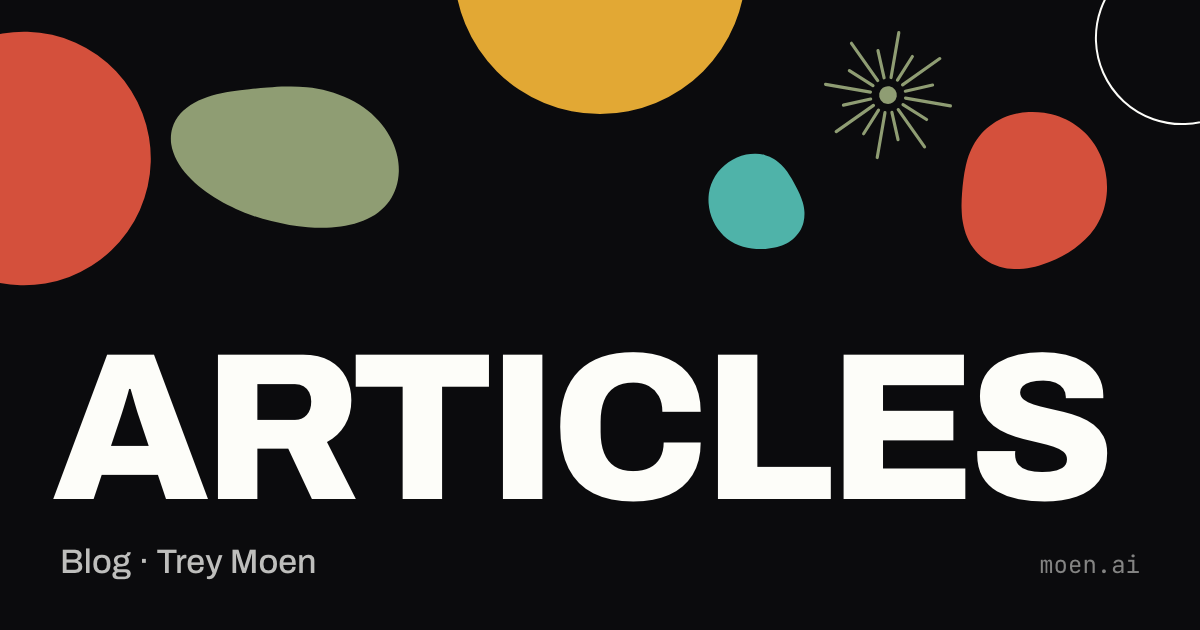
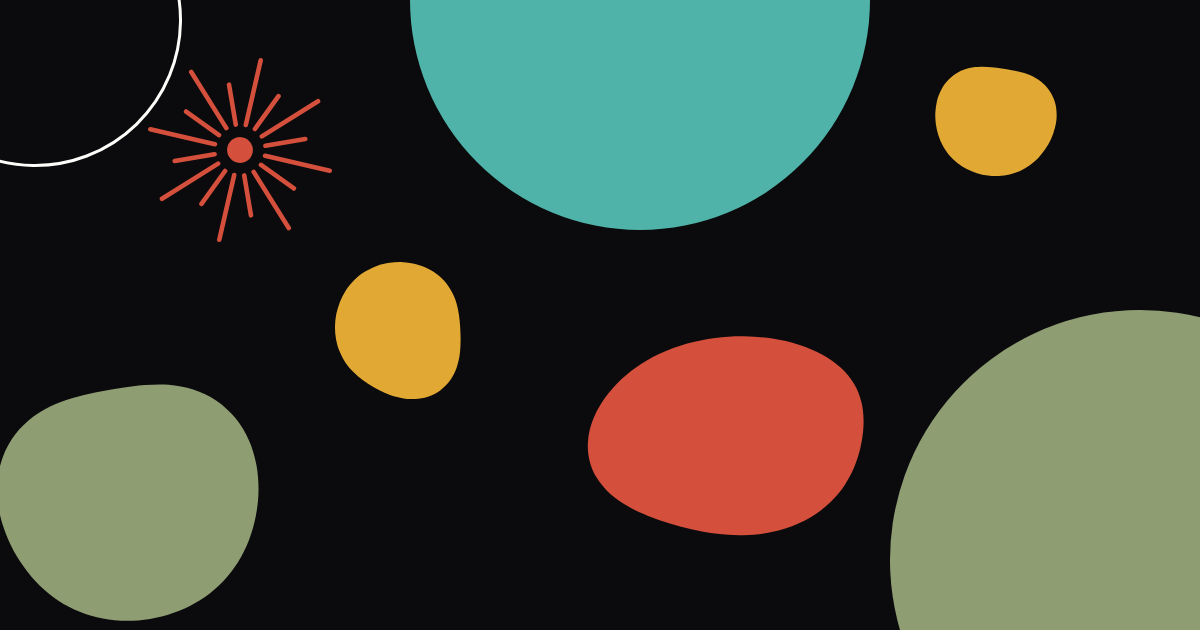
Text-free preview cards, less repeated metadata, Vercel Web Analytics
- Cards are just the shapes, full bleed, with a variation per page; link
  previews already show the title and domain underneath.
- The home page drops og:site_name and the blog index is titled "Blog", so
  Discord and iMessage don't repeat the name; descriptions no longer start
  with it either.
- Add the Vercel Web Analytics script to every page.

diff --git a/tools/og/card.html b/tools/og/card.html
@@ -1,45 +1,27 @@
 <!doctype html>
 <!--
-  Social preview card (1200×630): the hero's mid-century shapes over a title.
+  Social preview card (1200×630): the hero's mid-century shapes, full bleed,
+  no text (link previews already show the title and domain).
   Rendered to PNG by render.sh; not deployed.
-  Params: ?title=…&kicker=…
+  Params: ?hue=0–3 (reassign the palette) &mirror=1 (flip left to right)
 -->
 <html lang="en">
 <head>
   <meta charset="utf-8">
-  <link rel="stylesheet" href="https://fonts.googleapis.com/css2?family=Archivo:wdth,wght@62..125,100..900&family=JetBrains+Mono:wght@400;500&display=block">
   <style>
-    :root {
-      --bg: #0b0b0d; --fg: #fdfdf9; --fg-2: rgba(253,253,249,.74); --fg-3: rgba(253,253,249,.5);
-      --terracotta: #d4503c; --mustard: #e2a834; --sage: #8f9d73; --teal: #4fb3a9;
-    }
-    * { margin: 0; box-sizing: border-box; }
-    html, body { width: 1200px; height: 630px; overflow: hidden; background: var(--bg); color: var(--fg); }
-    body { position: relative; font-family: Archivo, sans-serif; -webkit-font-smoothing: antialiased; }
-    svg { position: absolute; inset: 0; }
-    .text { position: absolute; left: 60px; right: 60px; bottom: 50px; }
-    .title {
-      font-weight: 820; font-variation-settings: "wdth" var(--wdth, 100);
-      text-transform: uppercase; line-height: .8; letter-spacing: -.035em; margin-left: -.04em;
-    }
-    .title span { display: block; width: max-content; white-space: nowrap; }
-    .meta { display: flex; justify-content: space-between; align-items: baseline; margin-top: 30px; }
-    .kicker { font-size: 34px; font-weight: 500; color: var(--fg-2); }
-    .site { font-family: 'JetBrains Mono', monospace; font-size: 24px; color: var(--fg-3); }
+    :root { --bg: #0b0b0d; --fg: #fdfdf9; --terracotta: #d4503c; --mustard: #e2a834; --sage: #8f9d73; --teal: #4fb3a9; }
+    * { margin: 0; }
+    html, body { width: 1200px; height: 630px; overflow: hidden; background: var(--bg); }
+    svg { display: block; }
   </style>
 </head>
 <body>
-  <svg id="shapes" viewBox="0 0 1200 630" aria-hidden="true"></svg>
-  <div class="text">
-    <h1 class="title" id="title"></h1>
-    <div class="meta"><span class="kicker" id="kicker"></span><span class="site">moen.ai</span></div>
-  </div>
+  <svg id="shapes" width="1200" height="630" viewBox="0 0 1200 630" aria-hidden="true"></svg>
 
   <script>
     const params = new URLSearchParams(location.search);
-    const W = 1200, MAX_W = W - 120;
-    const titleEl = document.getElementById('title');
-    document.getElementById('kicker').textContent = params.get('kicker') || 'Professional Maker';
+    const hue = Number(params.get('hue')) || 0;
+    const mirror = params.get('mirror') === '1';
 
     // Same curve and shapes as the hero (js/main.js), frozen at t = 0.
     const smoothPath = (pts) => {
@@ -53,31 +35,37 @@
       }
       return `${d}Z`;
     };
-    const C = { t: 'var(--terracotta)', m: 'var(--mustard)', s: 'var(--sage)', g: 'var(--teal)', k: 'var(--fg)' };
+
+    // Fills rotate through the palette by `hue`; the ring stays white.
+    const FILLS = ['var(--terracotta)', 'var(--mustard)', 'var(--sage)', 'var(--teal)'];
+    const fill = (i) => FILLS[(i + hue) % FILLS.length];
+    // x, y, r in card pixels; `c` indexes FILLS. Edge shapes run off the card.
     const SHAPES = [
-      { kind: 'sun', fx: 0.02, fy: 0.5, r: 0.4, color: C.t },
-      { kind: 'kidney', fx: 0.24, fy: 0.5, r: 0.24, color: C.s, rot: 12 },
-      { kind: 'half', fx: 0.5, fy: -0.1, r: 0.46, color: C.m, rot: 180 },
-      { kind: 'pebble', fx: 0.63, fy: 0.64, r: 0.15, color: C.g },
-      { kind: 'burst', fx: 0.74, fy: 0.3, r: 0.2, color: C.s },
-      { kind: 'pebble', fx: 0.86, fy: 0.6, r: 0.24, color: C.t },
-      { kind: 'ring', fx: 0.985, fy: 0.12, r: 0.28, color: C.k },
+      { kind: 'sun', x: 60, y: 560, r: 250, c: 0 },
+      { kind: 'kidney', x: 470, y: 440, r: 100, c: 2, rot: 12 },
+      { kind: 'half', x: 560, y: 0, r: 230, c: 1, rot: 180 },
+      { kind: 'pebble', x: 205, y: 120, r: 58, c: 3 },
+      { kind: 'pebble', x: 800, y: 330, r: 66, c: 3 },
+      { kind: 'burst', x: 960, y: 150, r: 92, c: 2 },
+      { kind: 'pebble', x: 1070, y: 500, r: 125, c: 0 },
+      { kind: 'ring', x: 1165, y: 20, r: 150 },
     ];
     const WAVES = [[2, 0.055], [3, 0.035], [4, 0.015]];
 
-    function shapeSVG(spec, R, seed) {
+    function shapeSVG(spec, color, seed) {
+      const R = spec.r;
       switch (spec.kind) {
-        case 'sun': return `<circle r="${R}" fill="${spec.color}"/>`;
-        case 'half': return `<path d="M${-R},0A${R},${R} 0 0 1 ${R},0Z" fill="${spec.color}"/>`;
-        case 'ring': return `<circle r="${R * 0.97}" fill="none" stroke="${spec.color}" stroke-width="2"/>`;
+        case 'sun': return `<circle r="${R}" fill="${color}"/>`;
+        case 'half': return `<path d="M${-R},0A${R},${R} 0 0 1 ${R},0Z" fill="${color}"/>`;
+        case 'ring': return `<circle r="${R * 0.97}" fill="none" stroke="var(--fg)" stroke-width="3"/>`;
         case 'burst': {
           let d = '';
           for (let i = 0; i < 16; i++) {
             const a = (i / 16) * Math.PI * 2, r0 = R * 0.28, r1 = i % 2 ? R * 0.72 : R;
             d += `M${(Math.cos(a) * r0).toFixed(1)},${(Math.sin(a) * r0).toFixed(1)}L${(Math.cos(a) * r1).toFixed(1)},${(Math.sin(a) * r1).toFixed(1)}`;
           }
-          return `<path d="${d}" fill="none" stroke="${spec.color}" stroke-width="${Math.max(2, R * 0.05)}" stroke-linecap="round"/>` +
-            `<circle r="${R * 0.14}" fill="${spec.color}"/>`;
+          return `<path d="${d}" fill="none" stroke="${color}" stroke-width="${R * 0.05}" stroke-linecap="round"/>` +
+            `<circle r="${R * 0.14}" fill="${color}"/>`;
         }
         default: { // pebble, kidney
           const stretch = spec.kind === 'kidney' ? 1.45 : 1;
@@ -89,47 +77,18 @@
             if (spec.kind === 'kidney') r -= 0.12 * Math.max(0, Math.cos(a - Math.PI / 2)) ** 3;
             pts.push([Math.cos(a) * R * r * stretch, Math.sin(a) * R * r]);
           }
-          return `<path d="${smoothPath(pts)}" fill="${spec.color}"/>`;
+          return `<path d="${smoothPath(pts)}" fill="${color}"/>`;
         }
       }
     }
 
-    // Fit the title to the card width: one line when it can be big enough,
-    // otherwise two balanced lines.
-    function setTitle(lines, size) {
-      titleEl.replaceChildren(...lines.map((l) => Object.assign(document.createElement('span'), { textContent: l })));
-      titleEl.style.fontSize = `${size}px`;
-    }
-    const widest = () => Math.max(...[...titleEl.children].map((s) => s.getBoundingClientRect().width));
-    function fit(lines, maxSize) {
-      setTitle(lines, 100);
-      return Math.min(maxSize, (100 * MAX_W) / widest());
-    }
-    function layoutTitle(text) {
-      const one = fit([text], 210);
-      const words = text.split(' ');
-      if (one >= 150 || words.length < 2) return setTitle([text], one);
-      let best = null;
-      for (let i = 1; i < words.length; i++) {
-        const lines = [words.slice(0, i).join(' '), words.slice(i).join(' ')];
-        const size = fit(lines, 170);
-        if (!best || size > best.size) best = { lines, size };
-      }
-      setTitle(best.lines, best.size);
-    }
-
-    document.fonts.load('820 100px Archivo').then(() => document.fonts.ready).then(() => {
-      layoutTitle(params.get('title') || 'Trey Moen');
-      // The shapes fill the band above the title, as on the home page.
-      const H = titleEl.getBoundingClientRect().top - 28;
-      document.getElementById('shapes').innerHTML = SHAPES.map((spec, n) => {
-        const seed = n * 1.93 + 0.4, R = spec.r * H;
-        const x = spec.fx * W, y = Math.min(spec.fy * H, H - R * 1.12);
-        const angle = spec.kind === 'burst' ? seed * 40 : (spec.rot || 0) + (spec.kind === 'half' ? 0 : Math.sin(seed) * 4);
-        return `<g transform="translate(${x.toFixed(1)} ${y.toFixed(1)}) rotate(${angle.toFixed(2)})">${shapeSVG(spec, R, seed)}</g>`;
-      }).join('');
-      document.title = 'ready';
-    });
+    const shapes = SHAPES.map((spec, n) => {
+      const seed = n * 1.93 + 0.4 + hue;
+      const angle = spec.kind === 'burst' ? seed * 40 : (spec.rot || 0) + (spec.kind === 'half' ? 0 : Math.sin(seed) * 4);
+      return `<g transform="translate(${spec.x} ${spec.y}) rotate(${angle.toFixed(2)})">${shapeSVG(spec, fill(spec.c ?? 0), seed)}</g>`;
+    }).join('');
+    document.getElementById('shapes').innerHTML = mirror ? `<g transform="translate(1200 0) scale(-1 1)">${shapes}</g>` : shapes;
+    document.title = 'ready';
   </script>
 </body>
 </html>

diff --git a/blog/index.html b/blog/index.html
@@ -4,7 +4,7 @@
   <meta charset="utf-8">
   <meta name="viewport" content="width=device-width, initial-scale=1, viewport-fit=cover">
   <title>Blog · Trey Moen</title>
-  <meta name="description" content="Writing by Trey Moen: a senior capstone on autonomous driving and machine learning, articles that shaped my thinking, and projects.">
+  <meta name="description" content="A senior capstone on autonomous driving and machine learning, articles that shaped my thinking, and projects.">
   <meta name="author" content="Trey Moen">
   <meta name="theme-color" content="#0b0b0d">
   <link rel="canonical" href="https://moen.ai/blog">
@@ -13,18 +13,18 @@
   <meta property="og:locale" content="en_US">
   <meta property="og:type" content="website">
   <meta property="og:url" content="https://moen.ai/blog">
-  <meta property="og:title" content="Blog · Trey Moen">
-  <meta property="og:description" content="Writing by Trey Moen: a senior capstone on autonomous driving and machine learning, articles that shaped my thinking, and projects.">
+  <meta property="og:title" content="Blog">
+  <meta property="og:description" content="A senior capstone on autonomous driving and machine learning, articles that shaped my thinking, and projects.">
   <meta property="og:image" content="https://moen.ai/og/blog.png">
   <meta property="og:image:type" content="image/png">
   <meta property="og:image:width" content="1200">
   <meta property="og:image:height" content="630">
-  <meta property="og:image:alt" content="Terracotta, mustard, sage, and teal mid-century shapes above the word Blog">
+  <meta property="og:image:alt" content="Mid-century shapes in terracotta, mustard, sage, and teal">
   <meta name="twitter:card" content="summary_large_image">
-  <meta name="twitter:title" content="Blog · Trey Moen">
-  <meta name="twitter:description" content="Writing by Trey Moen: a senior capstone on autonomous driving and machine learning, articles that shaped my thinking, and projects.">
+  <meta name="twitter:title" content="Blog">
+  <meta name="twitter:description" content="A senior capstone on autonomous driving and machine learning, articles that shaped my thinking, and projects.">
   <meta name="twitter:image" content="https://moen.ai/og/blog.png">
-  <meta name="twitter:image:alt" content="Terracotta, mustard, sage, and teal mid-century shapes above the word Blog">
+  <meta name="twitter:image:alt" content="Mid-century shapes in terracotta, mustard, sage, and teal">
 
   <link rel="icon" href="../favicon.ico" sizes="any">
   <link rel="icon" type="image/png" sizes="32x32" href="../favicon-32x32.png">
@@ -42,6 +42,8 @@
     addEventListener('pagereveal', function (e) { if (e.viewTransition) document.documentElement.classList.add('vt'); });
   </script>
   <script src="../js/main.js" defer></script>
+  <script>window.va = window.va || function () { (window.vaq = window.vaq || []).push(arguments); };</script>
+  <script src="/_vercel/insights/script.js" defer></script>
 </head>
 <body class="page-post">
   <a class="skip" href="#content">Skip to content</a>

diff --git a/index.html b/index.html
@@ -4,27 +4,26 @@
   <meta charset="utf-8">
   <meta name="viewport" content="width=device-width, initial-scale=1, viewport-fit=cover">
   <title>Trey Moen · Professional Maker</title>
-  <meta name="description" content="Trey Moen, professional maker. Projects, writing, and how to get in touch.">
+  <meta name="description" content="Projects, writing, and how to get in touch.">
   <meta name="author" content="Trey Moen">
   <meta name="theme-color" content="#0b0b0d">
   <link rel="canonical" href="https://moen.ai/">
 
-  <meta property="og:site_name" content="Trey Moen">
   <meta property="og:locale" content="en_US">
   <meta property="og:type" content="website">
   <meta property="og:url" content="https://moen.ai/">
   <meta property="og:title" content="Trey Moen">
-  <meta property="og:description" content="Trey Moen, professional maker. Projects, writing, and how to get in touch.">
+  <meta property="og:description" content="Projects, writing, and how to get in touch.">
   <meta property="og:image" content="https://moen.ai/og/home.png">
   <meta property="og:image:type" content="image/png">
   <meta property="og:image:width" content="1200">
   <meta property="og:image:height" content="630">
-  <meta property="og:image:alt" content="Terracotta, mustard, sage, and teal mid-century shapes above the name Trey Moen">
+  <meta property="og:image:alt" content="Mid-century shapes in terracotta, mustard, sage, and teal">
   <meta name="twitter:card" content="summary_large_image">
   <meta name="twitter:title" content="Trey Moen">
-  <meta name="twitter:description" content="Trey Moen, professional maker. Projects, writing, and how to get in touch.">
+  <meta name="twitter:description" content="Projects, writing, and how to get in touch.">
   <meta name="twitter:image" content="https://moen.ai/og/home.png">
-  <meta name="twitter:image:alt" content="Terracotta, mustard, sage, and teal mid-century shapes above the name Trey Moen">
+  <meta name="twitter:image:alt" content="Mid-century shapes in terracotta, mustard, sage, and teal">
 
   <link rel="icon" href="favicon.ico" sizes="any">
   <link rel="icon" type="image/png" sizes="32x32" href="favicon-32x32.png">
@@ -44,6 +43,8 @@
     addEventListener('pagereveal', function (e) { if (e.viewTransition) document.documentElement.classList.add('vt'); });
   </script>
   <script src="js/main.js" defer></script>
+  <script>window.va = window.va || function () { (window.vaq = window.vaq || []).push(arguments); };</script>
+  <script src="/_vercel/insights/script.js" defer></script>
 </head>
 <body class="page-home">
   <a class="skip" href="#content">Skip to content</a>

diff --git a/blog/vinetech.html b/blog/vinetech.html
@@ -19,7 +19,7 @@
   <meta property="og:image:type" content="image/png">
   <meta property="og:image:width" content="1200">
   <meta property="og:image:height" content="630">
-  <meta property="og:image:alt" content="Terracotta, mustard, sage, and teal mid-century shapes above the title Senior Capstone Project">
+  <meta property="og:image:alt" content="Mid-century shapes in terracotta, mustard, sage, and teal">
   <meta property="article:published_time" content="2022-06-03">
   <meta property="article:modified_time" content="2022-07-08">
   <meta property="article:author" content="https://moen.ai/">
@@ -27,7 +27,7 @@
   <meta name="twitter:title" content="Senior Capstone Project">
   <meta name="twitter:description" content="Autonomous driving, machine learning, and more.">
   <meta name="twitter:image" content="https://moen.ai/og/vinetech.png">
-  <meta name="twitter:image:alt" content="Terracotta, mustard, sage, and teal mid-century shapes above the title Senior Capstone Project">
+  <meta name="twitter:image:alt" content="Mid-century shapes in terracotta, mustard, sage, and teal">
 
   <link rel="icon" href="../favicon.ico" sizes="any">
   <link rel="icon" type="image/png" sizes="32x32" href="../favicon-32x32.png">
@@ -45,6 +45,8 @@
     addEventListener('pagereveal', function (e) { if (e.viewTransition) document.documentElement.classList.add('vt'); });
   </script>
   <script src="../js/main.js" defer></script>
+  <script>window.va = window.va || function () { (window.vaq = window.vaq || []).push(arguments); };</script>
+  <script src="/_vercel/insights/script.js" defer></script>
 </head>
 <body class="page-post">
   <a class="skip" href="#content">Skip to content</a>

diff --git a/blog/articles.html b/blog/articles.html
@@ -19,7 +19,7 @@
   <meta property="og:image:type" content="image/png">
   <meta property="og:image:width" content="1200">
   <meta property="og:image:height" content="630">
-  <meta property="og:image:alt" content="Terracotta, mustard, sage, and teal mid-century shapes above the title Articles">
+  <meta property="og:image:alt" content="Mid-century shapes in terracotta, mustard, sage, and teal">
   <meta property="article:published_time" content="2021-07-14">
   <meta property="article:modified_time" content="2022-02-08">
   <meta property="article:author" content="https://moen.ai/">
@@ -27,7 +27,7 @@
   <meta name="twitter:title" content="Articles">
   <meta name="twitter:description" content="A collection of articles that have influenced my thinking.">
   <meta name="twitter:image" content="https://moen.ai/og/articles.png">
-  <meta name="twitter:image:alt" content="Terracotta, mustard, sage, and teal mid-century shapes above the title Articles">
+  <meta name="twitter:image:alt" content="Mid-century shapes in terracotta, mustard, sage, and teal">
 
   <link rel="icon" href="../favicon.ico" sizes="any">
   <link rel="icon" type="image/png" sizes="32x32" href="../favicon-32x32.png">
@@ -45,6 +45,8 @@
     addEventListener('pagereveal', function (e) { if (e.viewTransition) document.documentElement.classList.add('vt'); });
   </script>
   <script src="../js/main.js" defer></script>
+  <script>window.va = window.va || function () { (window.vaq = window.vaq || []).push(arguments); };</script>
+  <script src="/_vercel/insights/script.js" defer></script>
 </head>
 <body class="page-post">
   <a class="skip" href="#content">Skip to content</a>

diff --git a/blog/projects.html b/blog/projects.html
@@ -19,7 +19,7 @@
   <meta property="og:image:type" content="image/png">
   <meta property="og:image:width" content="1200">
   <meta property="og:image:height" content="630">
-  <meta property="og:image:alt" content="Terracotta, mustard, sage, and teal mid-century shapes above the title Projects">
+  <meta property="og:image:alt" content="Mid-century shapes in terracotta, mustard, sage, and teal">
   <meta property="article:published_time" content="2021-07-13">
   <meta property="article:modified_time" content="2022-07-08">
   <meta property="article:author" content="https://moen.ai/">
@@ -27,7 +27,7 @@
   <meta name="twitter:title" content="Projects">
   <meta name="twitter:description" content="A few of the projects I have worked on.">
   <meta name="twitter:image" content="https://moen.ai/og/projects.png">
-  <meta name="twitter:image:alt" content="Terracotta, mustard, sage, and teal mid-century shapes above the title Projects">
+  <meta name="twitter:image:alt" content="Mid-century shapes in terracotta, mustard, sage, and teal">
 
   <link rel="icon" href="../favicon.ico" sizes="any">
   <link rel="icon" type="image/png" sizes="32x32" href="../favicon-32x32.png">
@@ -45,6 +45,8 @@
     addEventListener('pagereveal', function (e) { if (e.viewTransition) document.documentElement.classList.add('vt'); });
   </script>
   <script src="../js/main.js" defer></script>
+  <script>window.va = window.va || function () { (window.vaq = window.vaq || []).push(arguments); };</script>
+  <script src="/_vercel/insights/script.js" defer></script>
 </head>
 <body class="page-post">
   <a class="skip" href="#content">Skip to content</a>

diff --git a/404.html b/404.html
@@ -22,6 +22,8 @@
     addEventListener('pagereveal', function (e) { if (e.viewTransition) document.documentElement.classList.add('vt'); });
   </script>
   <script src="/js/main.js" defer></script>
+  <script>window.va = window.va || function () { (window.vaq = window.vaq || []).push(arguments); };</script>
+  <script src="/_vercel/insights/script.js" defer></script>
 </head>
 <body class="page-post">
   <a class="skip" href="#content">Skip to content</a>
